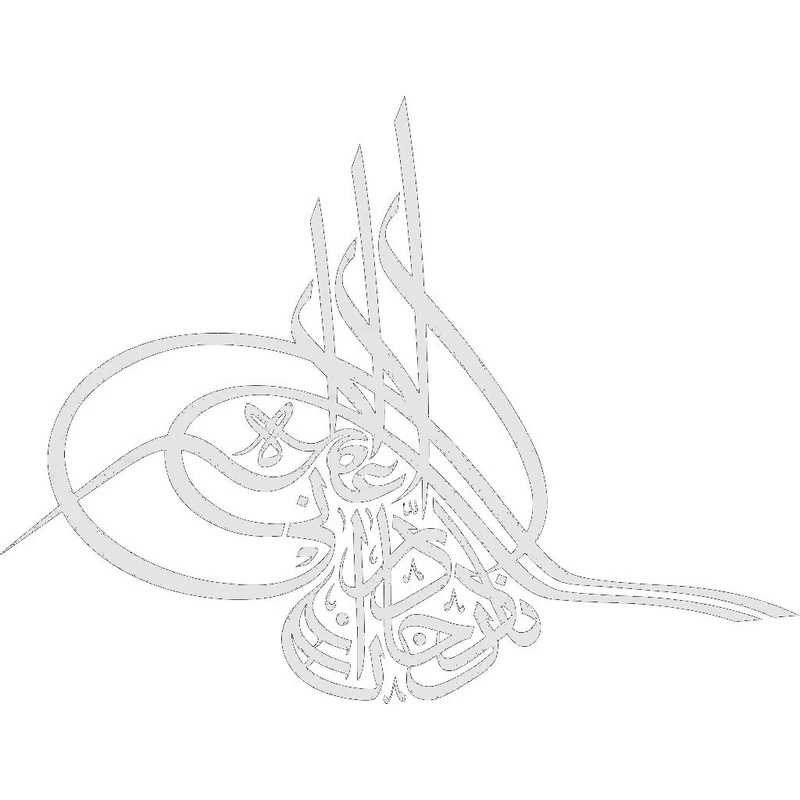
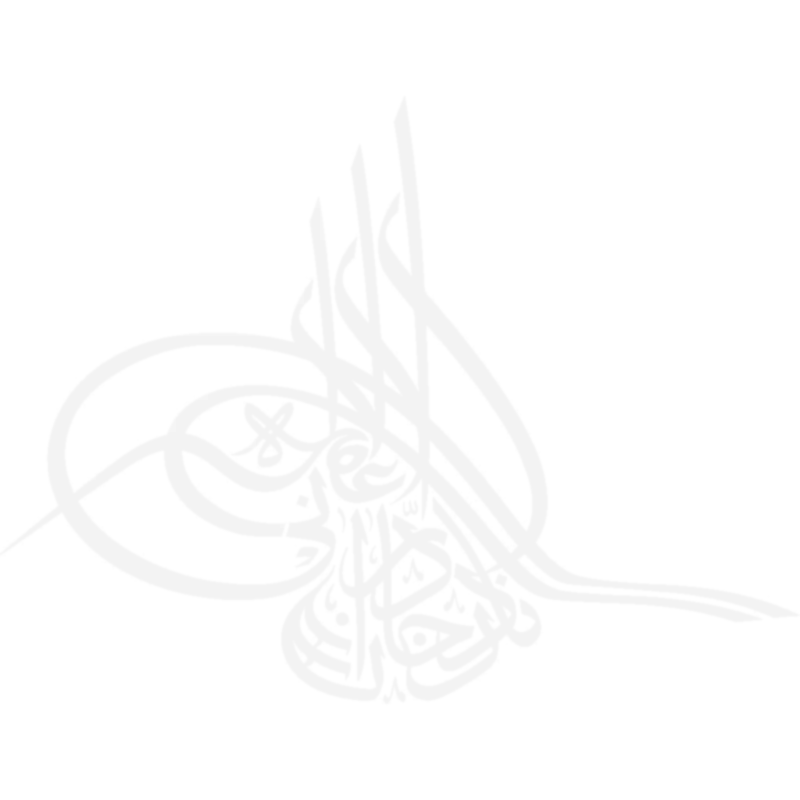
Update

diff --git a/index.html b/index.html
@@ -145,12 +145,10 @@
 
           <div class="clearfix">
             <style>
-body {
-  background-image: url('assets/img/Tughra.jpg');
-  background-repeat: no-repeat;
-  background-size: 40% 40%;
-  
-}
+  body
+  { background-image: url('assets/img/Tughra.png');
+    background-repeat: no-repeat; background-size: 40% 40%;
+  }
 </style>
 
 <p>I am a Senior Scientist at the Arabic Language Technologies (<a href="https://alt.qcri.org/" target="_blank" rel="noopener noreferrer">ALT</a>) where I work on several projects such as Interpretability (<a href="https://neurox.qcri.org/" target="_blank" rel="noopener noreferrer">NeuroX</a>), Machine Translation (<a href="https://mt.qcri.org/api" target="_blank" rel="noopener noreferrer">Shaheen</a>), Speech Synthesis (<a href="https://tts.qcri.org/" target="_blank" rel="noopener noreferrer">NatiQ</a>) and language processing tools for Arabic (<a href="https://alt.qcri.org/farasa/" target="_blank" rel="noopener noreferrer">Farasa</a>). <a href="https://www.hbku.edu.qa/en/qcri" target="_blank" rel="noopener noreferrer">QCRI</a> is a unique place that provides a flavor of research and productization at the same time. Please gloss through my projects and research.</p>
